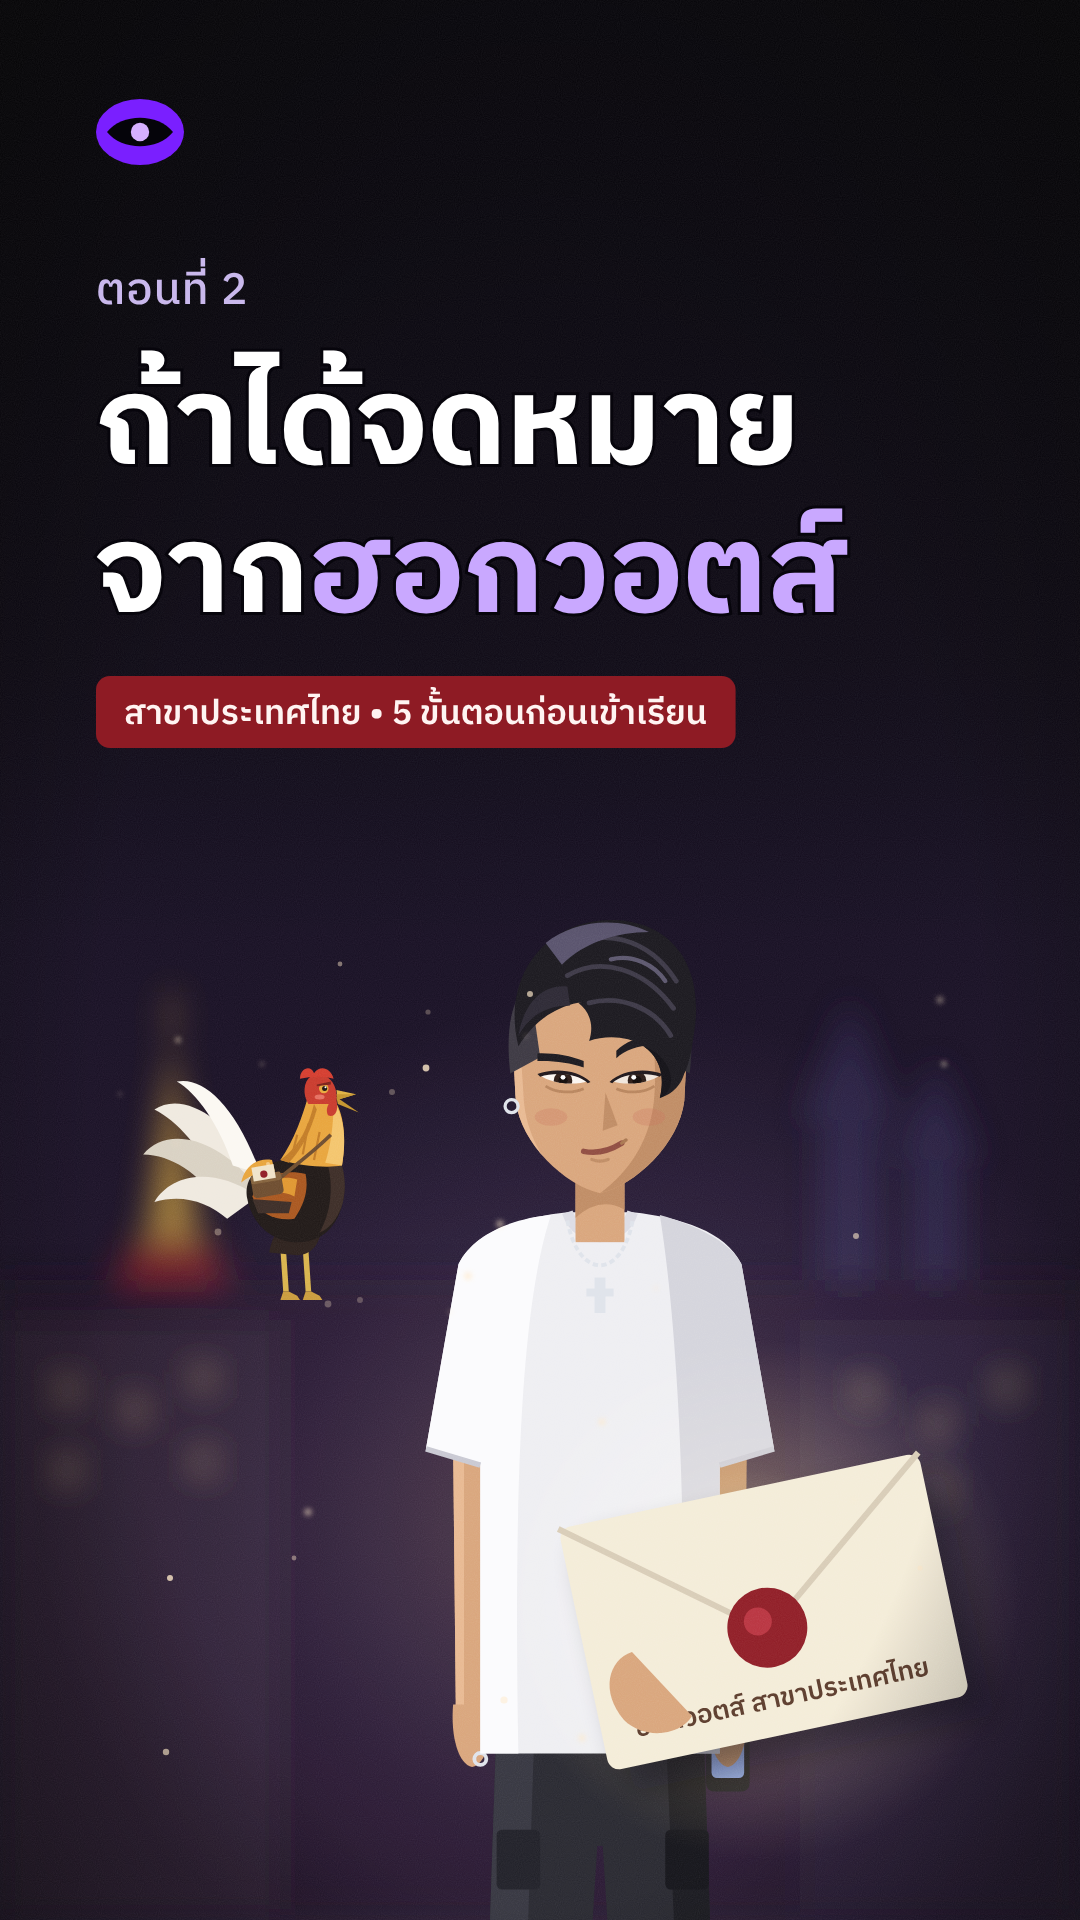
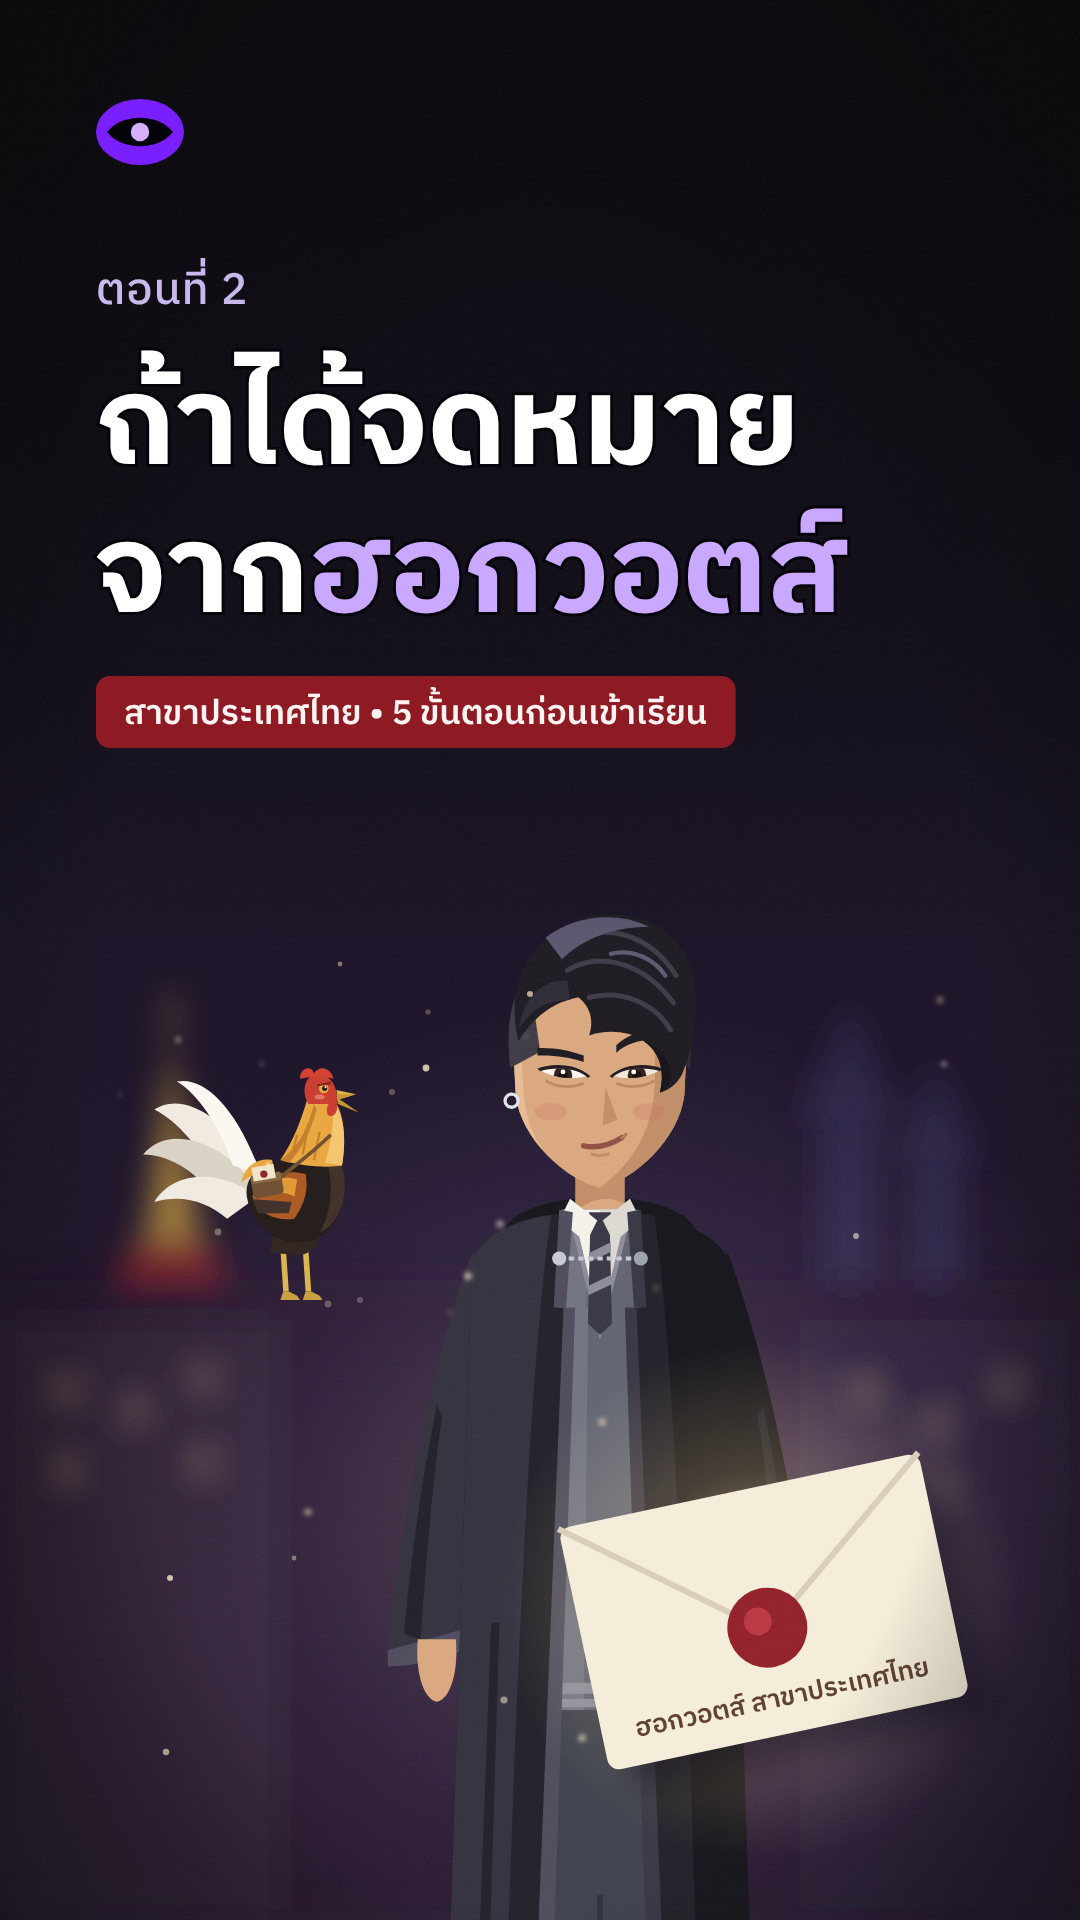
ep-magic-letter cover: Sing in black robe, rooster clear of face (v1 backed up)
Claude-Session: https://claude.ai/code/session_01Ma1ny2Bpr6S6SWpp28yEqs

Changed region(s): [[0.3667, 0.4688, 0.7333, 1.0], [0.6417, 0.9062, 0.7028, 1.0], [0.4583, 0.5625, 0.4889, 0.5938]]

diff --git a/episodes/ep-magic-letter/cover/cover.html b/episodes/ep-magic-letter/cover/cover.html
@@ -957,7 +957,7 @@
     <path d="M 12,49 L 8,50 L 22,468 L 29,468 Z" fill="#34323f"/>
     <path d="M -60,465 L -26,465 L -26,468 L -60,468 Z M 60,465 L 26,465 L 26,468 L 60,468 Z" fill="#2a2934"/>
   <path d="M -67,206 L -53,206 C -52,218 -55,228 -60,229 C -65,228 -68,218 -67,206 Z" fill="#d9a47a"/>
-  <g transform="translate(60,206)"><path d="M 2,4 L 6,4 L 4,-62 L 1,-62 Z" fill="#d8c09a"/><circle cx="3" cy="-56" r="7" fill="#9a5a3a"/><circle cx="1" cy="-58" r="2.4" fill="#b8784e"/><path d="M -7,0 L 7,0 C 8,12 5,22 0,23 C -5,22 -8,12 -7,0 Z" fill="#bf8a62"/></g>
+  <g transform="translate(60,206)"><path d="M -7,0 L 7,0 C 8,12 5,22 0,23 C -5,22 -8,12 -7,0 Z" fill="#bf8a62"/></g>
   <path d="M -40,466 L -8,466 C -6,474 -8,479 -12,480 L -42,480 C -46,479 -45,470 -40,466 Z" fill="#2a2830"/>
     <path d="M 40,466 L 8,466 C 6,474 8,479 12,480 L 42,480 C 46,479 45,470 40,466 Z" fill="#1a191f"/>
   
@@ -1218,8 +1218,8 @@
   <rect x="30" y="690" width="7" height="10" fill="#ffd9a0" opacity=".45"/><rect x="64" y="700" width="7" height="10" fill="#ffd9a0" opacity=".45"/><rect x="98" y="684" width="7" height="10" fill="#ffd9a0" opacity=".45"/><rect x="30" y="730" width="7" height="10" fill="#ffd9a0" opacity=".45"/><rect x="98" y="726" width="7" height="10" fill="#ffd9a0" opacity=".45"/><rect x="430" y="690" width="7" height="10" fill="#ffd9a0" opacity=".45"/><rect x="466" y="706" width="7" height="10" fill="#ffd9a0" opacity=".45"/><rect x="500" y="688" width="7" height="10" fill="#ffd9a0" opacity=".45"/><rect x="466" y="740" width="7" height="10" fill="#ffd9a0" opacity=".45"/>
 </g>
 <ellipse cx="300" cy="760" rx="280" ry="260" fill="url(#halo)" style="mix-blend-mode:screen"/>
-<!-- ซิ่ง ยิ้มกวน (ครึ่งตัว) -->
-<g transform="translate(300,1195) scale(1.36)"><use href="#c_sing"/></g>
+<!-- ซิ่ง ชุดคลุมดำ ยิ้มกวน (ครึ่งตัว) -->
+<g transform="translate(300,1195) scale(1.36)"><use href="#c_sing_robe"/></g>
 <!-- ไอ้เหลืองเกาะไหล่ ขันใส่ -->
 <g transform="translate(150,650) scale(-.7,.7)"><use href="#c_rooster"/></g>
 <!-- จดหมายเรืองแสง ตราครั่งแดง -->
@@ -1231,7 +1231,6 @@
   <circle cx="0" cy="8" r="20" fill="#8e1b24"/><circle cx="-4" cy="4" r="7" fill="#b8323e"/>
   <text x="0" y="48" text-anchor="middle" class="t" font-size="13" font-weight="600" fill="#5a3a2a">ฮอกวอตส์ สาขาประเทศไทย</text>
 </g>
-<path d="M 312,860 C 300,846 304,830 316,826 L 346,858 C 340,868 322,870 312,860 Z" fill="#d9a47a"/>
 <g><circle cx="196" cy="546" r="1.5" opacity="0.29" fill="#ffe9c8"/><circle cx="214" cy="506" r="1.3" opacity="0.27" fill="#ffe9c8"/><circle cx="89" cy="520" r="1.2" opacity="0.70" fill="#ffe9c8" filter="url(#soft)"/><circle cx="154" cy="756" r="1.8" opacity="0.57" fill="#ffe9c8" filter="url(#soft)"/><circle cx="470" cy="500" r="1.7" opacity="0.41" fill="#ffe9c8" filter="url(#soft)"/><circle cx="109" cy="616" r="1.7" opacity="0.35" fill="#ffe9c8"/><circle cx="328" cy="644" r="1.4" opacity="0.28" fill="#ffe9c8" filter="url(#soft)"/><circle cx="147" cy="779" r="1.2" opacity="0.42" fill="#ffe9c8"/><circle cx="250" cy="612" r="1.7" opacity="0.63" fill="#ffe9c8" filter="url(#soft)"/><circle cx="301" cy="711" r="1.8" opacity="0.65" fill="#ffe9c8" filter="url(#soft)"/><circle cx="472" cy="532" r="1.2" opacity="0.67" fill="#ffe9c8" filter="url(#soft)"/><circle cx="265" cy="497" r="1.5" opacity="0.67" fill="#ffe9c8"/><circle cx="428" cy="618" r="1.5" opacity="0.58" fill="#ffe9c8"/><circle cx="252" cy="850" r="1.8" opacity="0.51" fill="#ffe9c8"/><circle cx="85" cy="789" r="1.5" opacity="0.80" fill="#ffe9c8"/><circle cx="180" cy="650" r="1.5" opacity="0.26" fill="#ffe9c8"/><circle cx="131" cy="532" r="0.8" opacity="0.67" fill="#ffe9c8" filter="url(#soft)"/><circle cx="164" cy="652" r="1.7" opacity="0.29" fill="#ffe9c8"/><circle cx="291" cy="869" r="1.7" opacity="0.73" fill="#ffe9c8" filter="url(#soft)"/><circle cx="234" cy="638" r="1.8" opacity="0.78" fill="#ffe9c8" filter="url(#soft)"/><circle cx="134" cy="582" r="1.0" opacity="0.52" fill="#ffe9c8"/><circle cx="170" cy="482" r="1.2" opacity="0.45" fill="#ffe9c8"/><circle cx="460" cy="784" r="1.3" opacity="0.59" fill="#ffe9c8"/><circle cx="83" cy="876" r="1.6" opacity="0.73" fill="#ffe9c8"/><circle cx="225" cy="656" r="0.8" opacity="0.60" fill="#ffe9c8" filter="url(#soft)"/><circle cx="88" cy="572" r="0.9" opacity="0.44" fill="#ffe9c8" filter="url(#soft)"/><circle cx="60" cy="547" r="0.8" opacity="0.45" fill="#ffe9c8" filter="url(#soft)"/><circle cx="427" cy="750" r="0.9" opacity="0.39" fill="#ffe9c8" filter="url(#soft)"/><circle cx="213" cy="534" r="1.7" opacity="0.80" fill="#ffe9c8"/><circle cx="263" cy="518" r="0.8" opacity="0.44" fill="#ffe9c8" filter="url(#soft)"/></g>
 <rect width="540" height="470" fill="url(#topfade)"/>
 <rect width="540" height="960" fill="url(#vig)"/>

diff --git a/episodes/ep-magic-letter/cover/cover_magic_v1.py b/episodes/ep-magic-letter/cover/cover_magic_v1.py
@@ -1,0 +1,93 @@
+"""ปกตอนฮอกวอตส์สาขาไทย ตามแม่แบบปกของช่อง (cover/cover.py): ข้อความครึ่งบน ภาพเด่นครึ่งล่าง พื้นดำอมม่วง เม็ดฟิล์มบาง ๆ
+ใช้ตัวละครจาก ../cast.html · ไม่เฉลยมุกในเรื่อง
+usage: python3 cover_magic.py -> cover.html ; node render.js -> cover.png (1080x1920)"""
+import re, random, pathlib
+HERE = pathlib.Path(__file__).parent
+cast = (HERE.parent / "cast.html").read_text()
+CHAR = re.search(r'(<svg width="0" height="0"[^>]*><defs>.*?</defs></svg>)', cast, re.S).group(1)
+
+EP = {
+    'episode': 'ตอนที่ 2',
+    'title1': 'ถ้าได้จดหมาย',
+    'title2_before': 'จาก', 'title2_hl': 'ฮอกวอตส์', 'title2_after': '',
+    'rule': 'สาขาประเทศไทย • 5 ขั้นตอนก่อนเข้าเรียน',
+}
+S = dict(margin_left=48, margin_right=48, logo=(70, 66), episode_y=152, title1_y=232, title2_y=306,
+         title_size=62, episode_size=22, rule_y=338, rule_h=36, rule_size=17)
+
+r = random.Random(7)
+motes = ''.join(f'<circle cx="{r.uniform(60,480):.0f}" cy="{r.uniform(480,920):.0f}" r="{r.uniform(.7,1.9):.1f}" opacity="{r.uniform(.25,.8):.2f}" fill="#ffe9c8"{" filter=\"url(#soft)\"" if r.random() < .4 else ""}/>' for _ in range(30))
+windows = ''.join(f'<rect x="{x}" y="{y}" width="7" height="10" fill="#ffd9a0" opacity=".45"/>' for x, y in [(30,690),(64,700),(98,684),(30,730),(98,726),(430,690),(466,706),(500,688),(466,740)])
+
+ART = f'''
+<rect width="540" height="960" fill="url(#bg)"/>
+<!-- ฉากหลัง: ยอดวัดสีทองซ้าย ปราสาทเวทมนตร์ขวา ตึกแถวเก่า เบลอจาง ๆ -->
+<g filter="url(#soft6)" opacity=".75">
+  <path d="M 70,640 L 86,520 L 102,640 Z" fill="#c99a3a"/><path d="M 60,640 L 112,640 L 106,620 L 66,620 Z" fill="#8e1b24"/><path d="M 86,520 L 86,496" stroke="#c99a3a" stroke-width="3"/>
+  <path d="M 410,640 L 410,560 L 400,560 L 425,500 L 450,560 L 440,560 L 440,640 Z M 455,640 L 455,580 L 446,580 L 468,530 L 490,580 L 481,580 L 481,640 Z" fill="#2a2148"/>
+  <rect x="0" y="640" width="540" height="320" fill="#1a1024"/>
+  <rect x="0" y="660" width="140" height="300" fill="#2a1a2e"/><rect x="400" y="660" width="140" height="300" fill="#22182e"/>
+  {windows}
+</g>
+<ellipse cx="300" cy="760" rx="280" ry="260" fill="url(#halo)" style="mix-blend-mode:screen"/>
+<!-- ซิ่ง ยิ้มกวน (ครึ่งตัว) -->
+<g transform="translate(300,1195) scale(1.36)"><use href="#c_sing"/></g>
+<!-- ไอ้เหลืองเกาะไหล่ ขันใส่ -->
+<g transform="translate(150,650) scale(-.7,.7)"><use href="#c_rooster"/></g>
+<!-- จดหมายเรืองแสง ตราครั่งแดง -->
+<circle cx="380" cy="800" r="130" fill="url(#glow)" style="mix-blend-mode:screen"/>
+<g transform="translate(382,806) rotate(-12)">
+  <rect x="-92" y="-62" width="184" height="124" rx="6" fill="#05040a" opacity=".45" transform="translate(10,12)" filter="url(#soft6)"/>
+  <rect x="-92" y="-62" width="184" height="124" rx="6" fill="#f4ecd8"/>
+  <path d="M -92,-62 L 0,10 L 92,-62" fill="none" stroke="#d8ccb6" stroke-width="3"/>
+  <circle cx="0" cy="8" r="20" fill="#8e1b24"/><circle cx="-4" cy="4" r="7" fill="#b8323e"/>
+  <text x="0" y="48" text-anchor="middle" class="t" font-size="13" font-weight="600" fill="#5a3a2a">ฮอกวอตส์ สาขาประเทศไทย</text>
+</g>
+<path d="M 312,860 C 300,846 304,830 316,826 L 346,858 C 340,868 322,870 312,860 Z" fill="#d9a47a"/>
+<g>{motes}</g>
+<rect width="540" height="470" fill="url(#topfade)"/>
+<rect width="540" height="960" fill="url(#vig)"/>
+<rect width="540" height="960" filter="url(#grain)" opacity=".09" style="mix-blend-mode:screen"/>
+<rect width="540" height="960" filter="url(#grain)" opacity=".06" style="mix-blend-mode:overlay"/>
+'''
+
+TEXT = f'''
+<g id="logo" transform="translate({S['logo'][0]},{S['logo'][1]})"><ellipse rx="22" ry="16.5" fill="#7a1fff"/>
+  <path d="M -16.5,0 C -9,-9.5 9,-9.5 16.5,0 C 9,9.5 -9,9.5 -16.5,0 Z" fill="#05040a"/><circle r="4.6" fill="#d6b0ff"/></g>
+<text id="episode" x="{S['margin_left']}" y="{S['episode_y']}" class="t" font-size="{S['episode_size']}" font-weight="500" fill="#c9b8ec" letter-spacing=".5">{EP['episode']}</text>
+<g class="t" font-weight="700" font-size="{S['title_size']}" fill="#ffffff" stroke="#07050c" stroke-width="3" paint-order="stroke">
+  <text id="title1" x="{S['margin_left']}" y="{S['title1_y']}">{EP['title1']}</text>
+  <text id="title2" x="{S['margin_left']}" y="{S['title2_y']}">{EP['title2_before']}<tspan fill="#c9a8ff">{EP['title2_hl']}</tspan>{EP['title2_after']}</text>
+</g>
+<g id="rule" transform="translate({S['margin_left']},{S['rule_y']})">
+  <rect width="0" height="{S['rule_h']}" rx="7" fill="#8e1b24"/>
+  <text x="14" y="{S['rule_h']/2 + S['rule_size']*0.36:.1f}" class="t" font-size="{S['rule_size']}" font-weight="600" fill="#fff4f2">{EP['rule']}</text>
+</g>'''
+
+DEFS = '''<defs>
+<linearGradient id="bg" x1="0" y1="0" x2="0" y2="1"><stop offset="0" stop-color="#07050c"/><stop offset=".45" stop-color="#140c20"/><stop offset="1" stop-color="#22142e"/></linearGradient>
+<radialGradient id="halo"><stop offset="0" stop-color="#ffd9a8" stop-opacity=".26"/><stop offset=".6" stop-color="#c9a8ff" stop-opacity=".08"/><stop offset="1" stop-color="#c9a8ff" stop-opacity="0"/></radialGradient>
+<radialGradient id="glow"><stop offset="0" stop-color="#fff2c8" stop-opacity=".7"/><stop offset=".5" stop-color="#ffd88a" stop-opacity=".2"/><stop offset="1" stop-color="#ffd88a" stop-opacity="0"/></radialGradient>
+<linearGradient id="topfade" x1="0" y1="0" x2="0" y2="1"><stop offset="0" stop-color="#05030a" stop-opacity=".92"/><stop offset=".7" stop-color="#05030a" stop-opacity=".45"/><stop offset="1" stop-color="#05030a" stop-opacity="0"/></linearGradient>
+<radialGradient id="vig" cx="50%" cy="58%" r="75%"><stop offset=".55" stop-color="#000" stop-opacity="0"/><stop offset="1" stop-color="#000" stop-opacity=".7"/></radialGradient>
+<filter id="soft" x="-200%" y="-200%" width="500%" height="500%"><feGaussianBlur stdDeviation="1.2"/></filter>
+<filter id="soft6" x="-30%" y="-30%" width="160%" height="160%"><feGaussianBlur stdDeviation="8"/></filter>
+<filter id="grain" filterUnits="userSpaceOnUse" x="0" y="0" width="540" height="960"><feTurbulence type="fractalNoise" baseFrequency="1.9" numOctaves="1" seed="4"/><feColorMatrix type="saturate" values="0"/></filter>
+</defs>'''
+
+CHAR = CHAR.replace('class="an-mouth-rooster" display="none"', 'class="an-mouth-rooster" display="inline"')   # ไก่อ้าปากขัน
+html = f'''<!doctype html><meta charset="utf-8"><title>Odd Hours cover</title>
+<link rel="stylesheet" href="https://fonts.googleapis.com/css2?family=IBM+Plex+Sans+Thai:wght@400;500;600;700&display=swap">
+<style>html,body{{margin:0;background:#000}}#cover{{display:block;width:540px;height:960px}}.t{{font-family:"IBM Plex Sans Thai","Noto Sans Thai",sans-serif}}</style>
+{CHAR}<svg id="cover" viewBox="0 0 540 960" xmlns="http://www.w3.org/2000/svg">{DEFS}<clipPath id="cv"><rect width="540" height="960"/></clipPath><g clip-path="url(#cv)">{ART}{TEXT}</g></svg>
+<script>
+document.fonts.ready.then(() => {{
+  const g = document.querySelector('#rule'), t = g.querySelector('text');
+  g.querySelector('rect').setAttribute('width', (t.getBBox().width + 28).toFixed(1));
+  const maxR = 540 - {S['margin_right']};
+  for (const id of ['title1', 'title2', 'rule']) {{ const b = document.getElementById(id).getBBox(); const x0 = id === 'rule' ? {S['margin_left']} : b.x; if (x0 + b.width > maxR) document.body.dataset.overflow = (document.body.dataset.overflow || '') + id + ' '; }}
+  document.body.dataset.ready = '1';
+}});
+</script>'''
+(HERE / "cover.html").write_text(html)
+print("cover.html built")

diff --git a/episodes/ep-magic-letter/cover/cover_magic.py b/episodes/ep-magic-letter/cover/cover_magic.py
@@ -30,8 +30,8 @@ ART = f'''
   {windows}
 </g>
 <ellipse cx="300" cy="760" rx="280" ry="260" fill="url(#halo)" style="mix-blend-mode:screen"/>
-<!-- ซิ่ง ยิ้มกวน (ครึ่งตัว) -->
-<g transform="translate(300,1195) scale(1.36)"><use href="#c_sing"/></g>
+<!-- ซิ่ง ชุดคลุมดำ ยิ้มกวน (ครึ่งตัว) -->
+<g transform="translate(300,1195) scale(1.36)"><use href="#c_sing_robe"/></g>
 <!-- ไอ้เหลืองเกาะไหล่ ขันใส่ -->
 <g transform="translate(150,650) scale(-.7,.7)"><use href="#c_rooster"/></g>
 <!-- จดหมายเรืองแสง ตราครั่งแดง -->
@@ -43,7 +43,6 @@ ART = f'''
   <circle cx="0" cy="8" r="20" fill="#8e1b24"/><circle cx="-4" cy="4" r="7" fill="#b8323e"/>
   <text x="0" y="48" text-anchor="middle" class="t" font-size="13" font-weight="600" fill="#5a3a2a">ฮอกวอตส์ สาขาประเทศไทย</text>
 </g>
-<path d="M 312,860 C 300,846 304,830 316,826 L 346,858 C 340,868 322,870 312,860 Z" fill="#d9a47a"/>
 <g>{motes}</g>
 <rect width="540" height="470" fill="url(#topfade)"/>
 <rect width="540" height="960" fill="url(#vig)"/>
@@ -75,6 +74,7 @@ DEFS = '''<defs>
 <filter id="grain" filterUnits="userSpaceOnUse" x="0" y="0" width="540" height="960"><feTurbulence type="fractalNoise" baseFrequency="1.9" numOctaves="1" seed="4"/><feColorMatrix type="saturate" values="0"/></filter>
 </defs>'''
 
+CHAR = re.sub(r'(<g id="c_sing_robe">.*?<g transform="translate\(60,206\)">)<path d="M 2,4 L 6,4 L 4,-62 L 1,-62 Z"[^>]*/><circle[^>]*/><circle[^>]*/>', r'\1', CHAR, count=1, flags=re.S)
 CHAR = CHAR.replace('class="an-mouth-rooster" display="none"', 'class="an-mouth-rooster" display="inline"')   # ไก่อ้าปากขัน
 html = f'''<!doctype html><meta charset="utf-8"><title>Odd Hours cover</title>
 <link rel="stylesheet" href="https://fonts.googleapis.com/css2?family=IBM+Plex+Sans+Thai:wght@400;500;600;700&display=swap">
